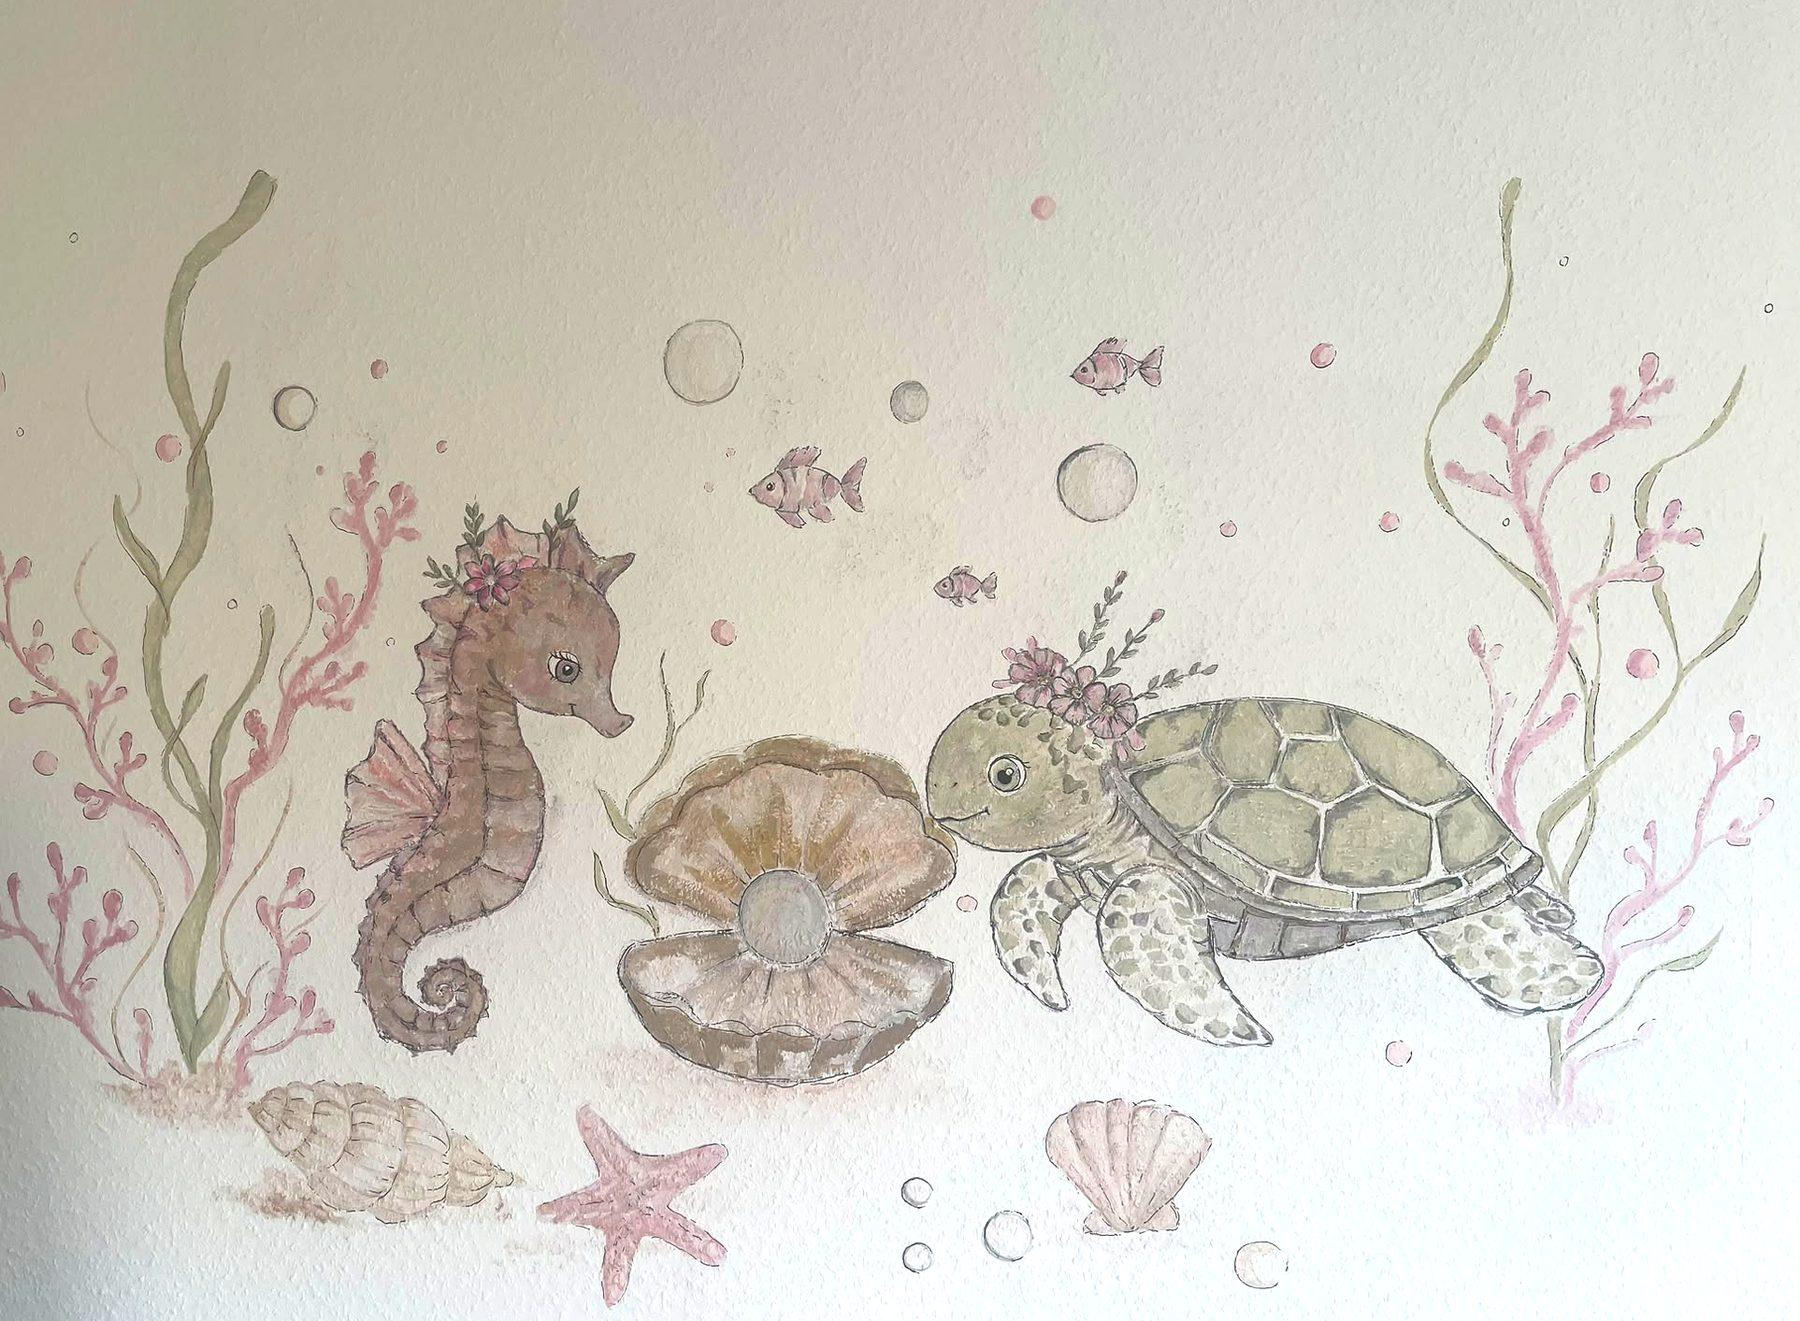
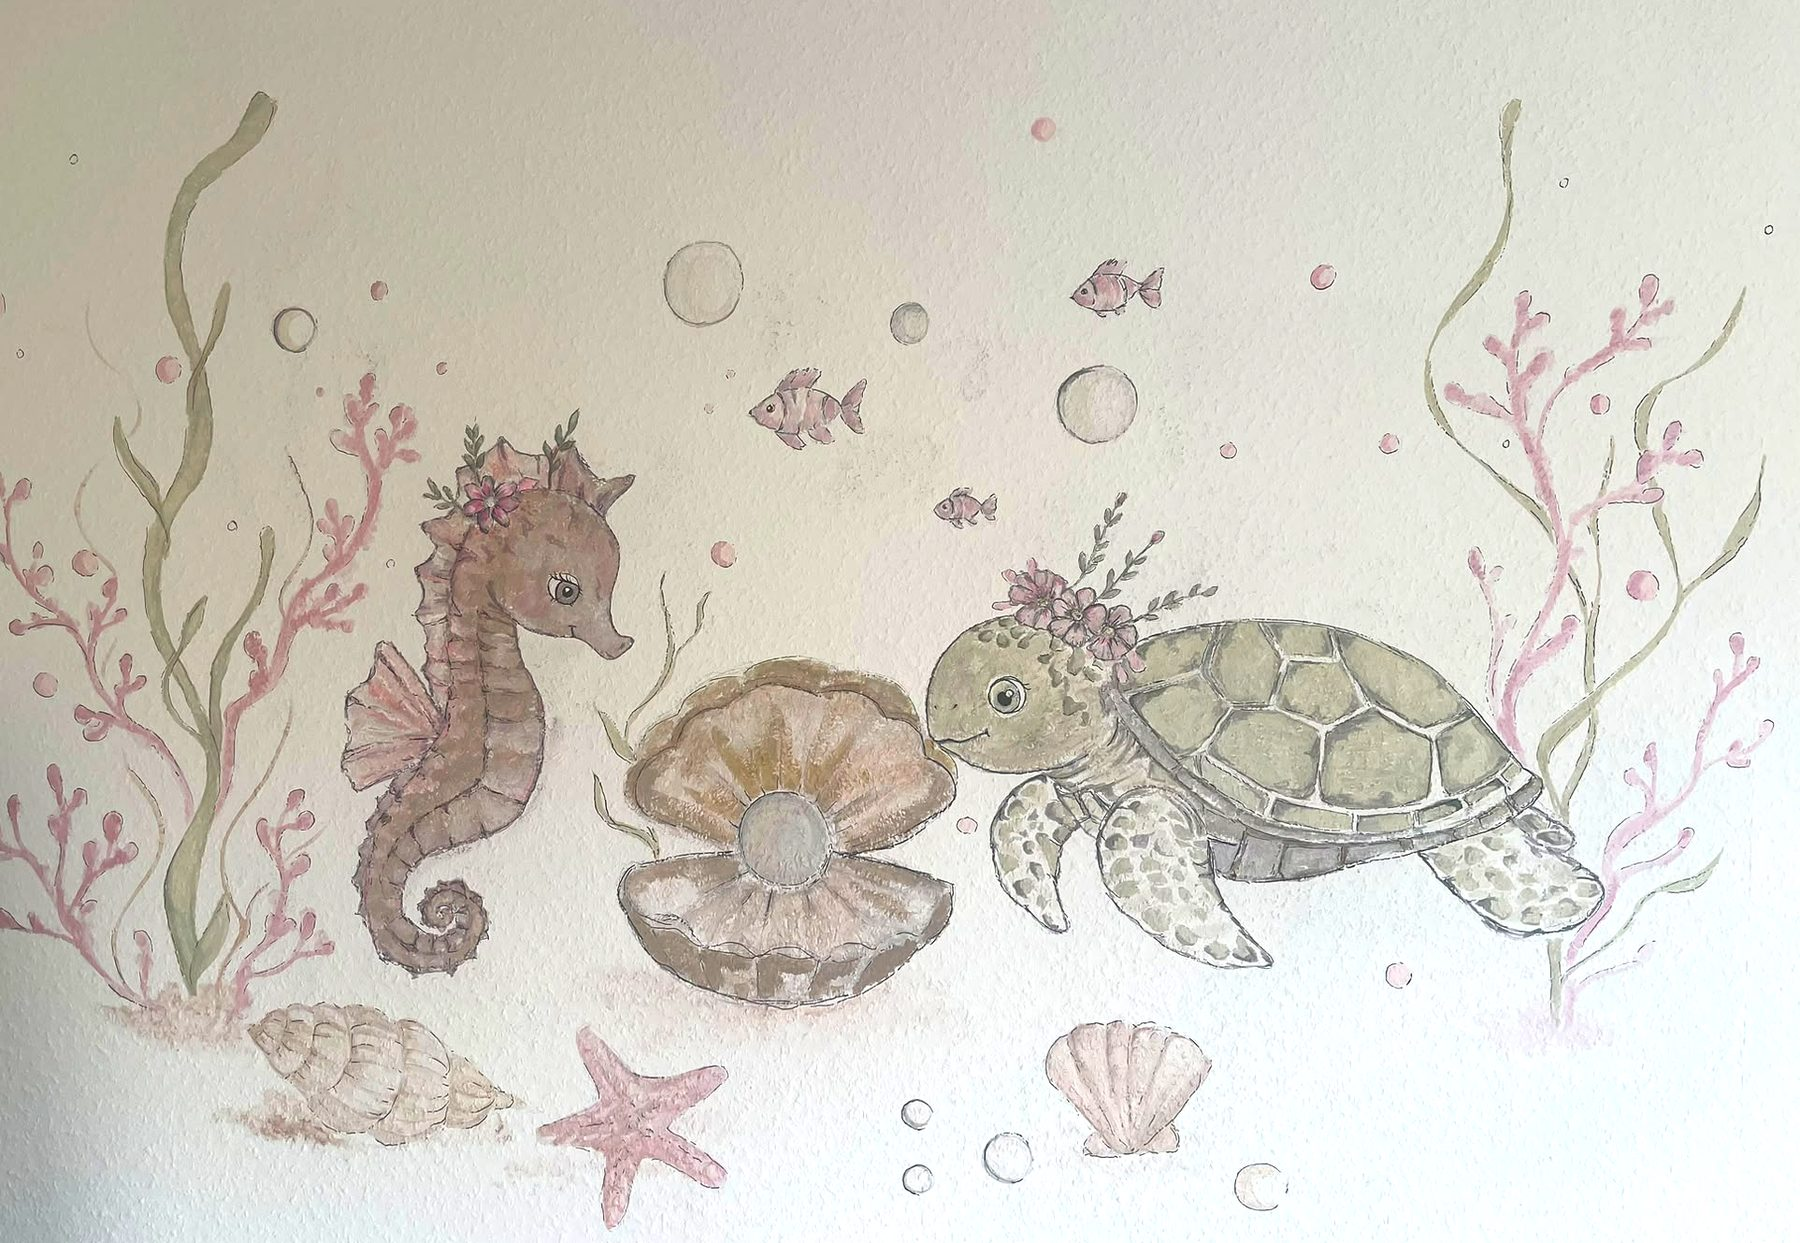
Kompakterer Kopf, ausgeglichener Einleitungstext

diff --git a/css/style.css b/css/style.css
@@ -68,8 +68,8 @@ main, footer { max-width: 760px; margin-inline: auto; padding-inline: 20px; }
   left: 50%;
   transform: translateX(-50%);
   /* So groß wie möglich, aber nie höher als der Bildschirm:
-     1.3623 ist das Seitenverhältnis des Ausschnitts. Nichts wird beschnitten. */
-  width: min(100%, calc((100vh - 8px) * 1.3623), 1800px);
+     1.4485 ist das Seitenverhältnis des Ausschnitts. Nichts wird beschnitten. */
+  width: min(100%, calc((100vh - 8px) * 1.4485), 1800px);
   z-index: -2;
   pointer-events: none;
   line-height: 0;
@@ -94,9 +94,9 @@ main, footer { max-width: 760px; margin-inline: auto; padding-inline: 20px; }
       rgba(250,245,239,.55) 96%, var(--bg) 100%),
     linear-gradient(to bottom,
       rgba(250,245,239,.93) 0%,
-      rgba(250,245,239,.90) 22%,
-      rgba(250,245,239,.78) 34%,
-      rgba(250,245,239,.24) 45%,
+      rgba(250,245,239,.88) 16%,
+      rgba(250,245,239,.68) 26%,
+      rgba(250,245,239,.20) 36%,
       rgba(250,245,239,.24) 72%,
       rgba(250,245,239,.68) 84%,
       var(--bg) 97%);
@@ -107,7 +107,7 @@ main, footer { max-width: 760px; margin-inline: auto; padding-inline: 20px; }
 @media (max-width: 900px) {
   .page-art {
     top: clamp(30px, 7vw, 80px);
-    width: min(100%, calc((100vh - clamp(30px, 7vw, 80px) - 8px) * 1.3623));
+    width: min(100%, calc((100vh - clamp(30px, 7vw, 80px) - 8px) * 1.4485));
   }
 }
 @media (max-width: 640px) {
@@ -123,7 +123,7 @@ main, footer { max-width: 760px; margin-inline: auto; padding-inline: 20px; }
   position: relative;
   text-align: center;
   padding: clamp(34px, 5.5vw, 56px) 20px 0;
-  min-height: clamp(385px, 58vh, 560px);
+  min-height: clamp(300px, 42vh, 430px);
 }
 
 .hero-text {
@@ -140,14 +140,16 @@ main, footer { max-width: 760px; margin-inline: auto; padding-inline: 20px; }
   line-height: 1;
   letter-spacing: -.015em;
   color: var(--ink);
+  text-wrap: balance;
 }
 
 .lede {
   margin: 0 auto;
-  max-width: 43ch;
+  max-width: 56ch;
   color: var(--ink-soft);
-  font-size: clamp(.9rem, 2.2vw, .97rem);
-  line-height: 1.6;
+  font-size: clamp(.92rem, 2.2vw, 1rem);
+  line-height: 1.62;
+  text-wrap: balance;      /* gleich lange Zeilen statt ausgefranster Absatz */
 }
 
 .lede strong { color: var(--rose); font-weight: 600; }
@@ -684,7 +686,7 @@ html.js .reveal.in {
    ========================================================================== */
 
 @media (max-width: 560px) {
-  .hero { min-height: clamp(370px, 53vh, 480px); padding-top: 30px; }
+  .hero { min-height: clamp(300px, 42vh, 400px); padding-top: 28px; }
 
   .summary { gap: 8px; margin-top: 26px; }
   .stat { padding: 14px 6px 12px; }

diff --git a/index.html b/index.html
@@ -10,7 +10,7 @@
 <link rel="preconnect" href="https://fonts.googleapis.com">
 <link rel="preconnect" href="https://fonts.gstatic.com" crossorigin>
 <link rel="stylesheet" href="https://fonts.googleapis.com/css2?family=Cormorant+Garamond:ital,wght@0,400;0,600;1,400&display=swap">
-<link rel="stylesheet" href="css/style.css?v=15">
+<link rel="stylesheet" href="css/style.css?v=18">
 </head>
 <body>
 
@@ -134,7 +134,7 @@
   </div>
 </footer>
 
-<script src="js/config.js?v=15"></script>
-<script src="js/app.js?v=15"></script>
+<script src="js/config.js?v=18"></script>
+<script src="js/app.js?v=18"></script>
 </body>
 </html>
